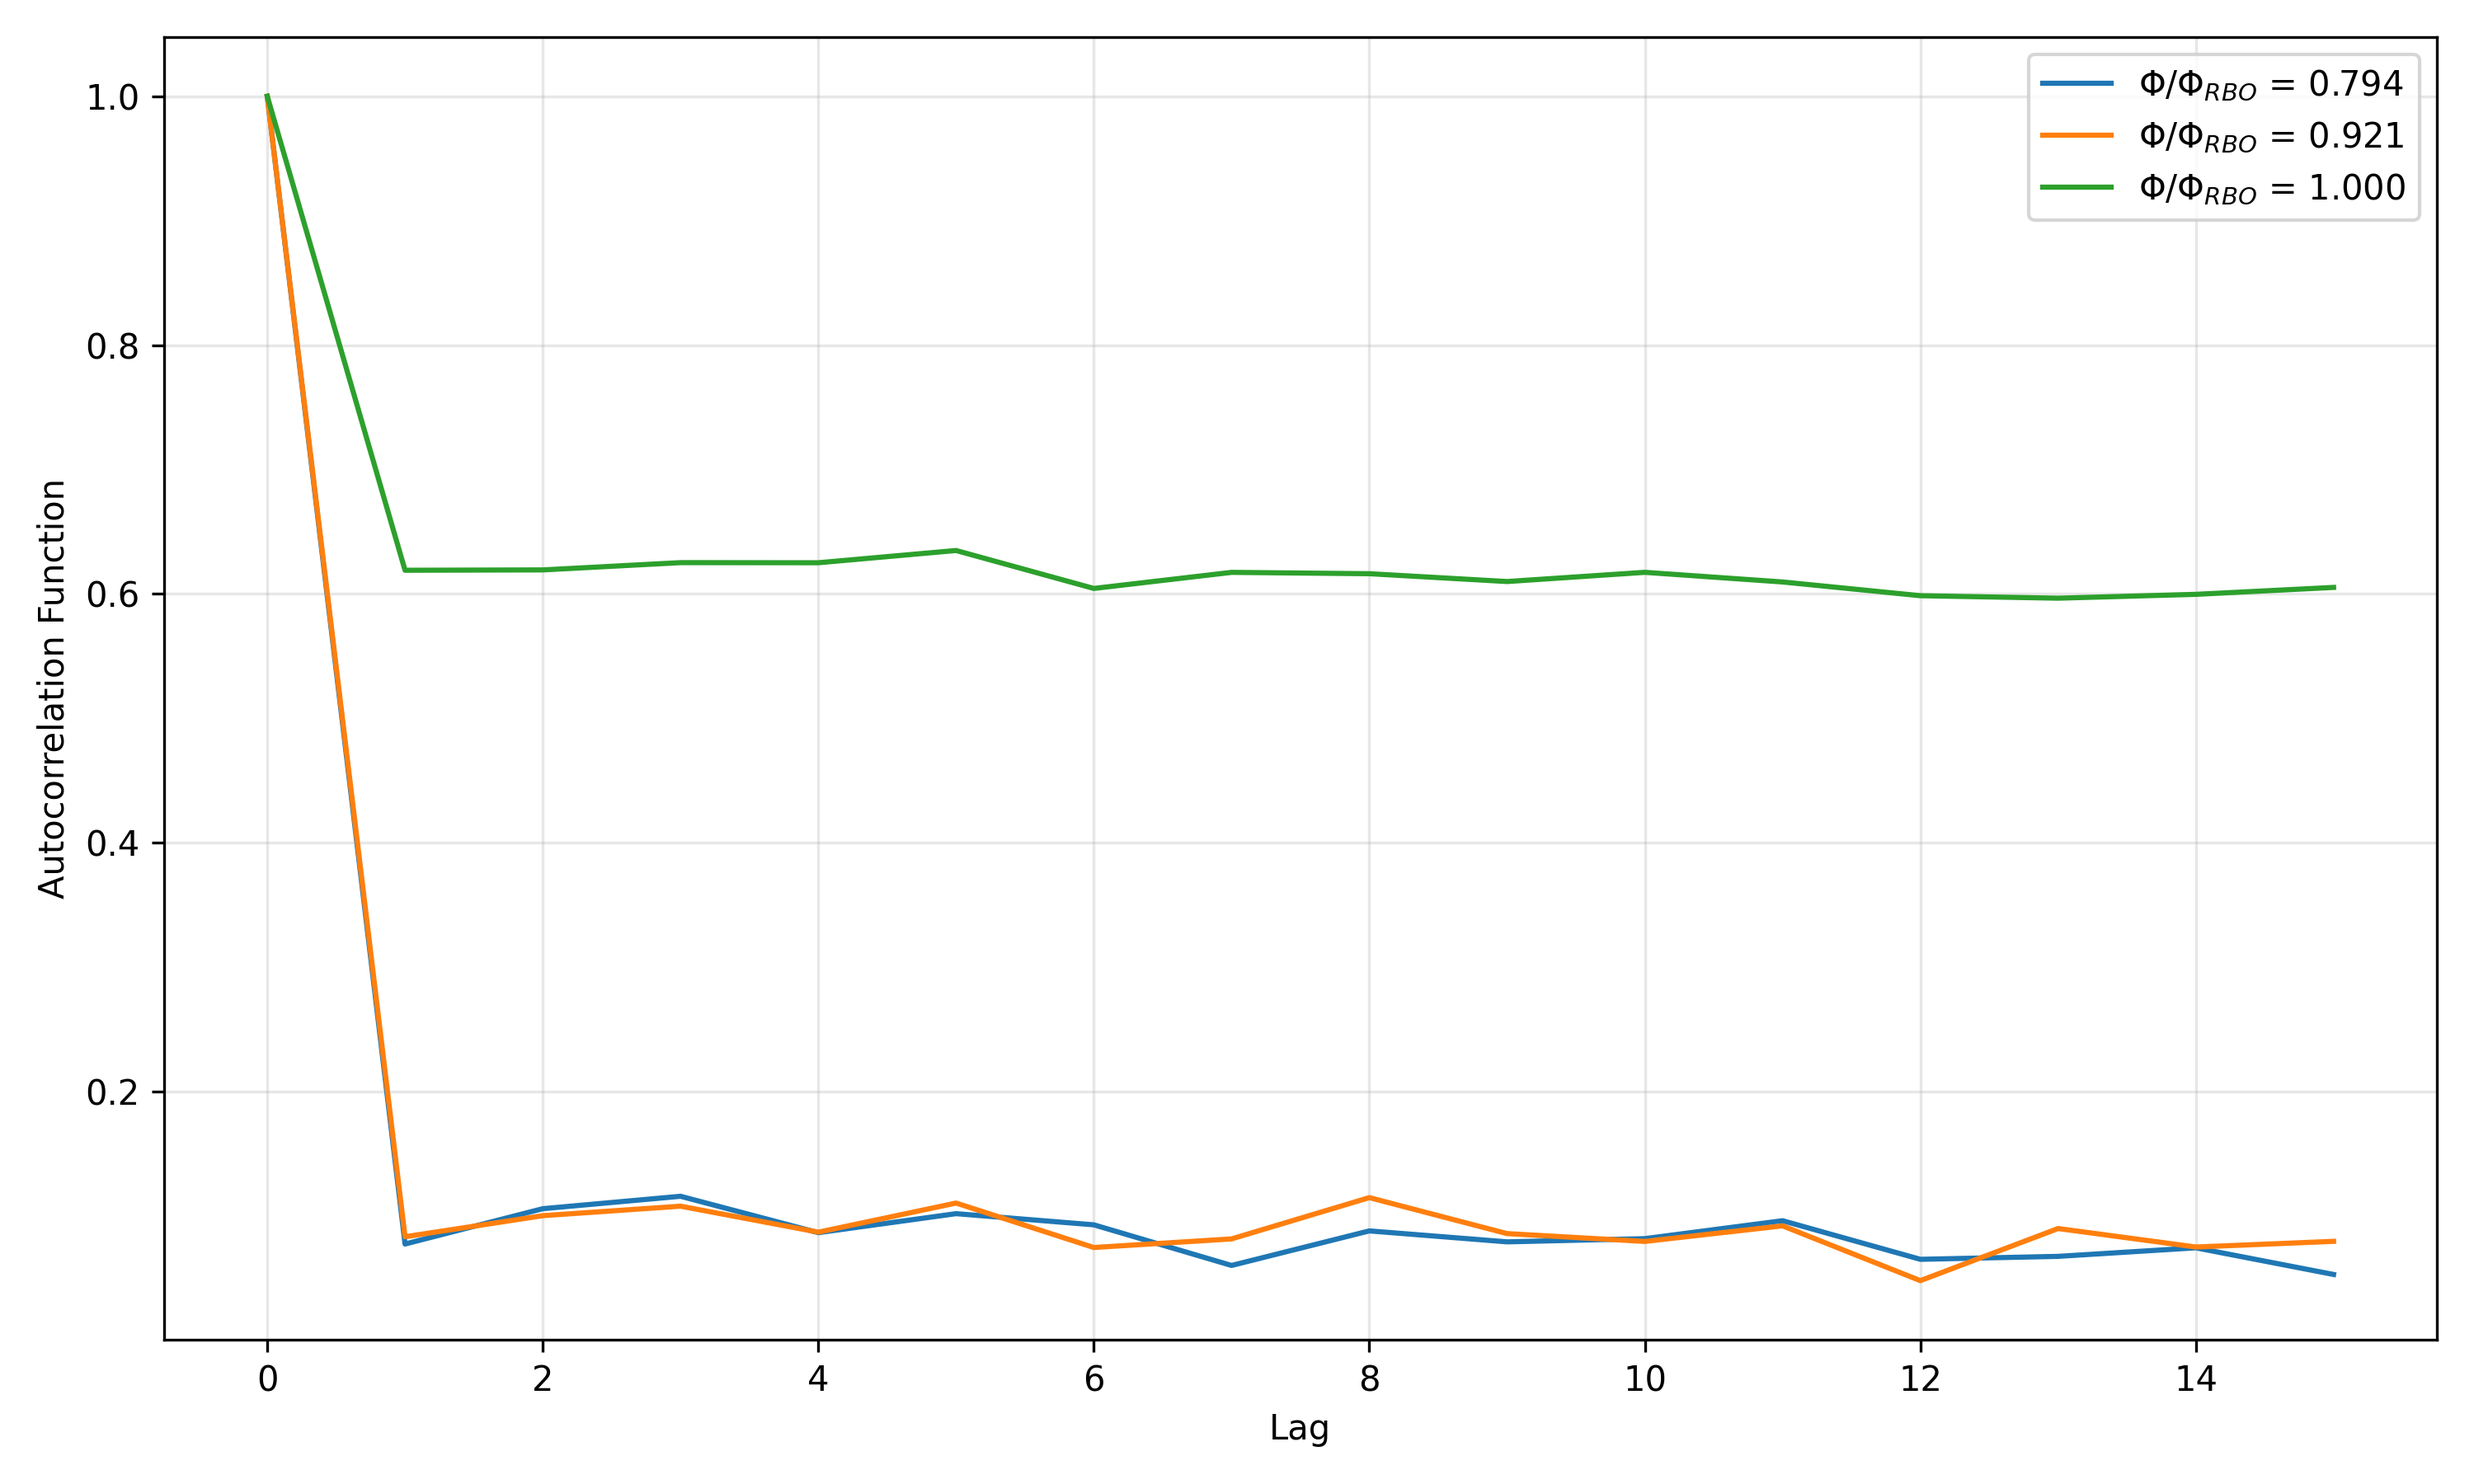
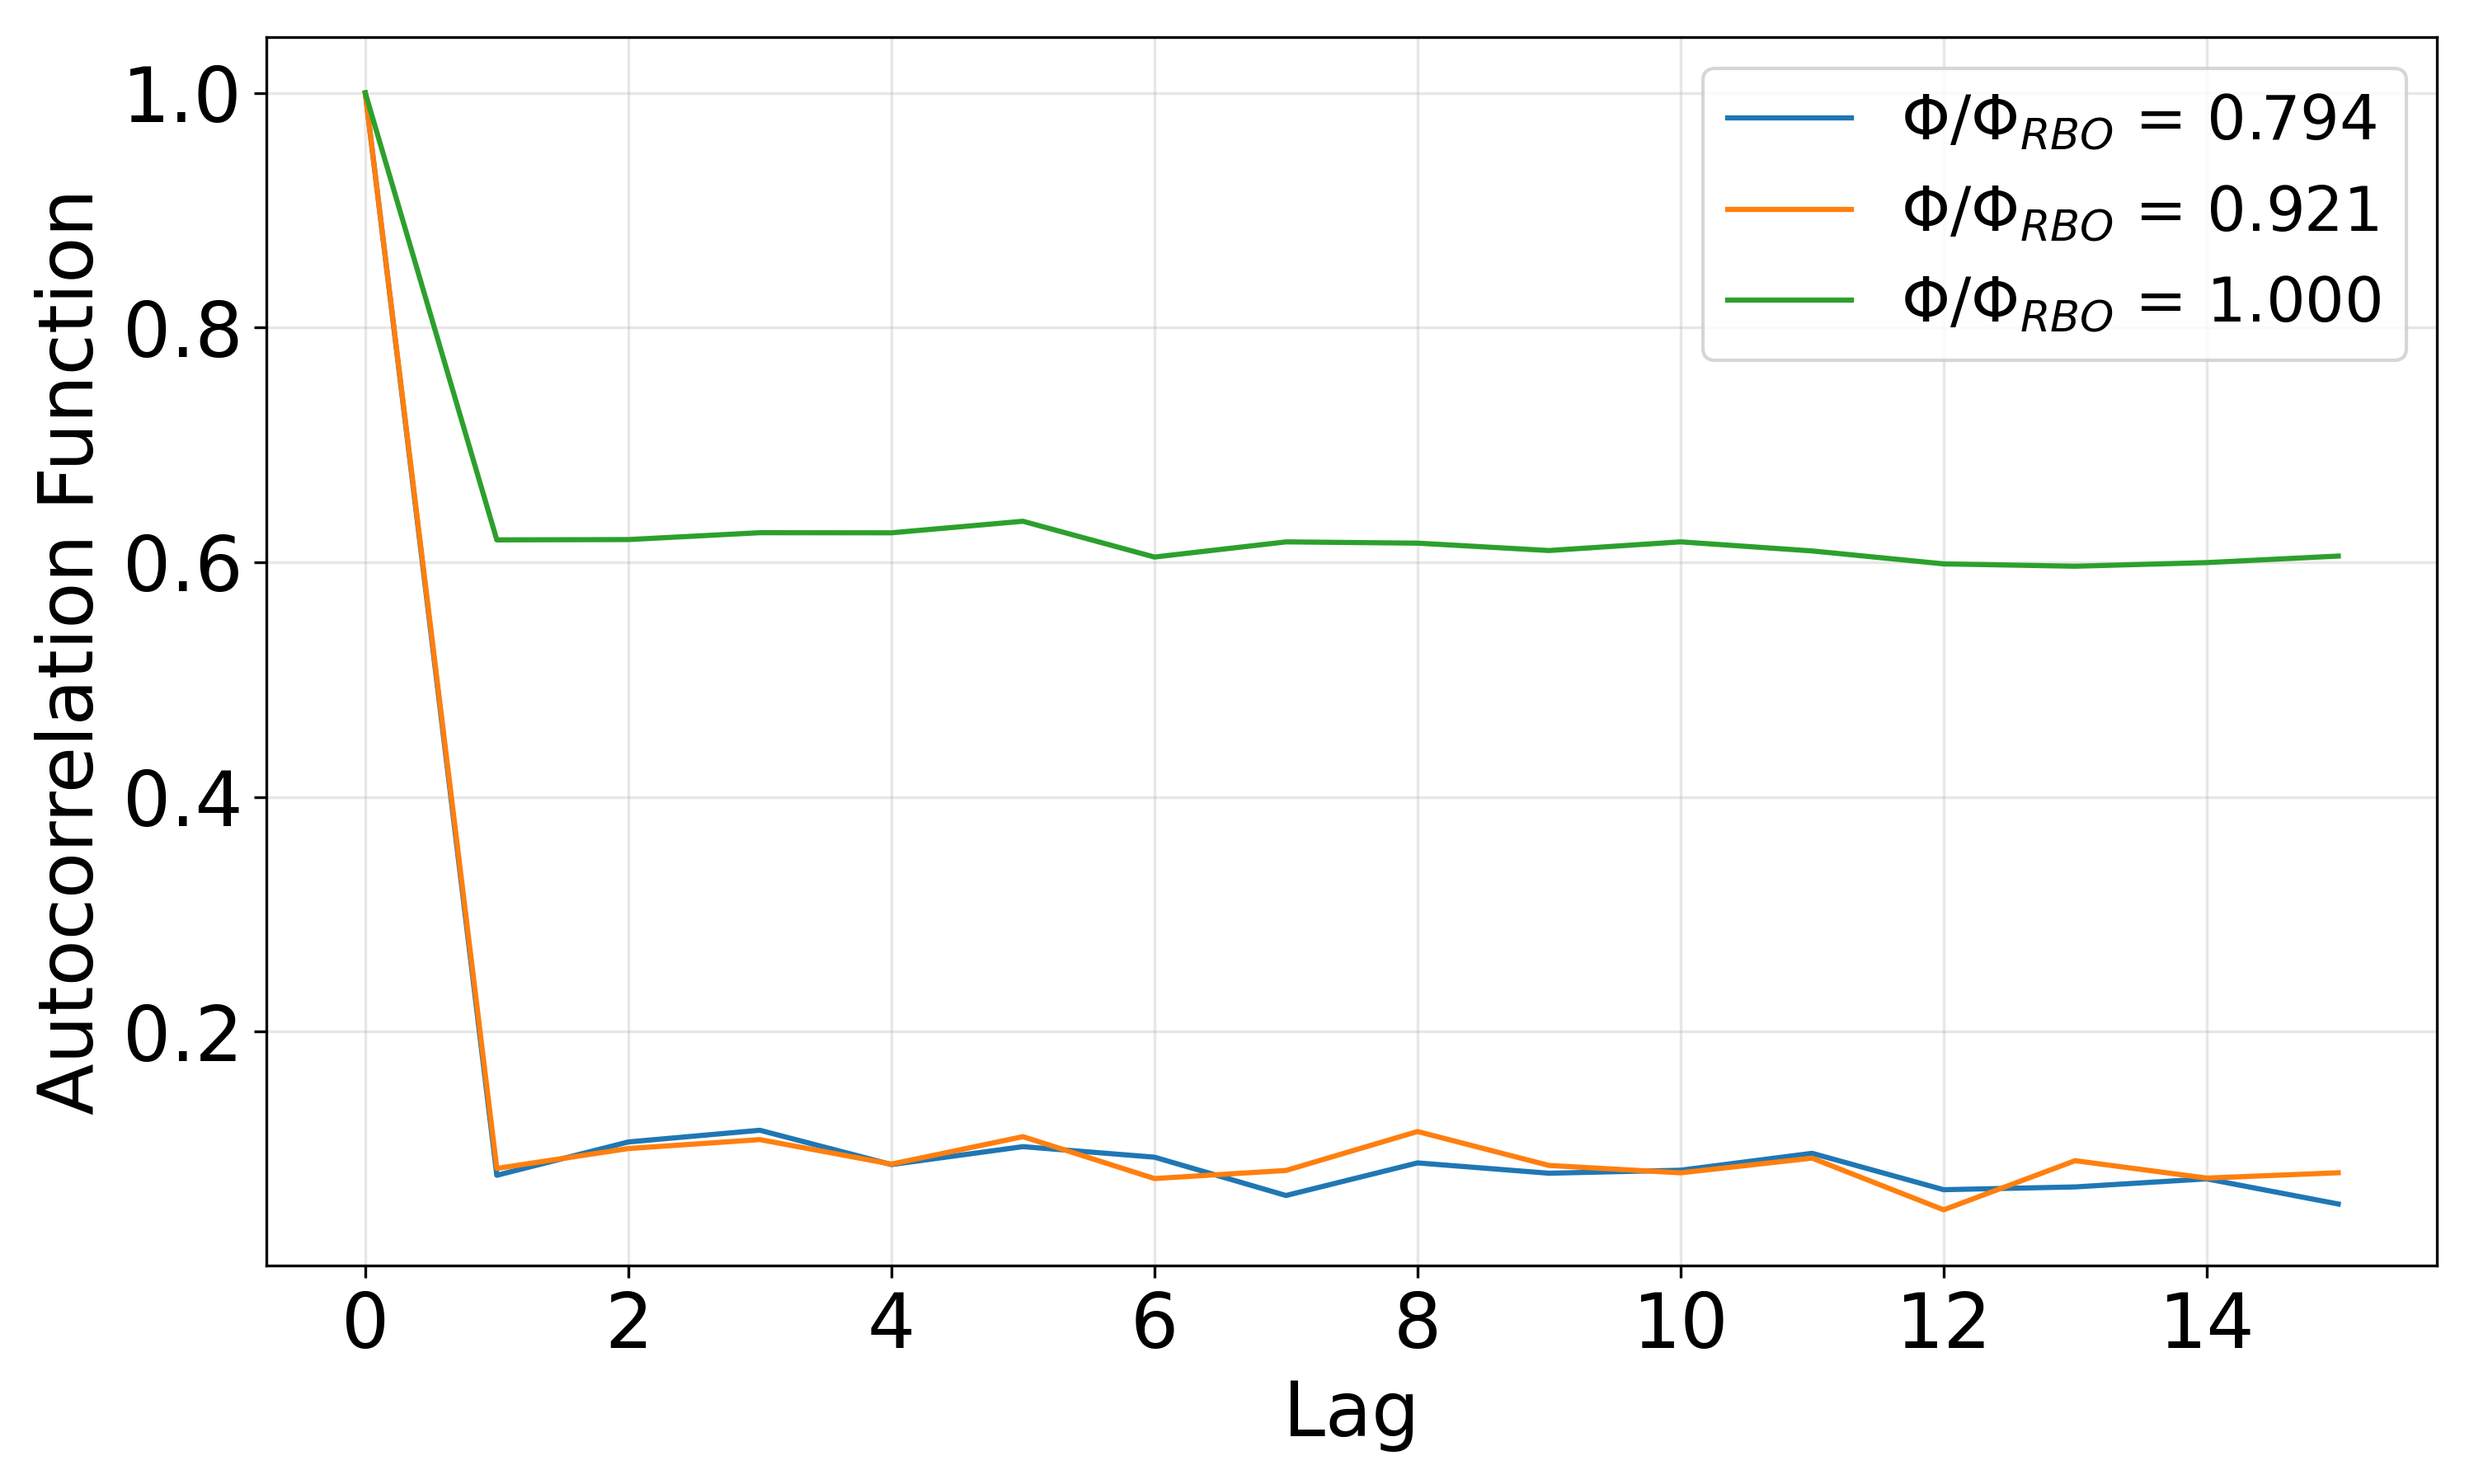
Added different correlation calculation method

diff --git a/Autorcorrelation.py b/Autorcorrelation.py
@@ -66,12 +66,14 @@ for file in plot_files:
 
     plt.plot(lag, acf, label=f"$\\Phi/\\Phi_{{RBO}}$ = {phi_norm:.3f}")
 
-plt.xlabel("Lag")
-plt.ylabel("Autocorrelation Function")
+plt.xlabel("Lag", fontsize=22)
+plt.ylabel("Autocorrelation Function", fontsize=22)
+plt.xticks(fontsize=22)
+plt.yticks(fontsize=22)
 
 plt.grid(True, alpha=0.3)
-plt.legend()
+plt.legend(fontsize=18)
 
 plt.tight_layout()
-plt.savefig("Figure_RBO_Autocorrelation.png", dpi=300)
+plt.savefig("Figure_RBO_Autocorrelation_ex.png", dpi=300)
 plt.show()
